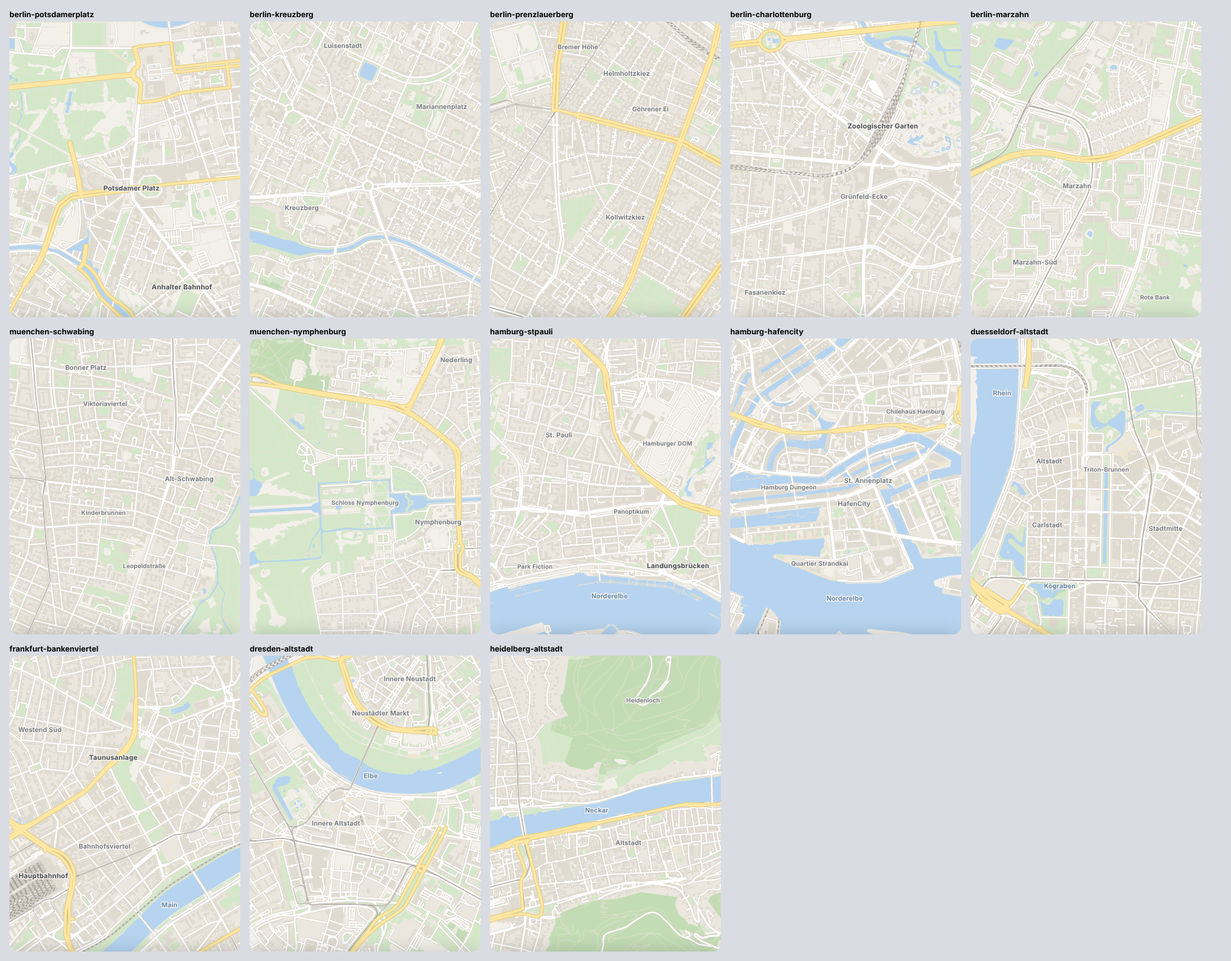
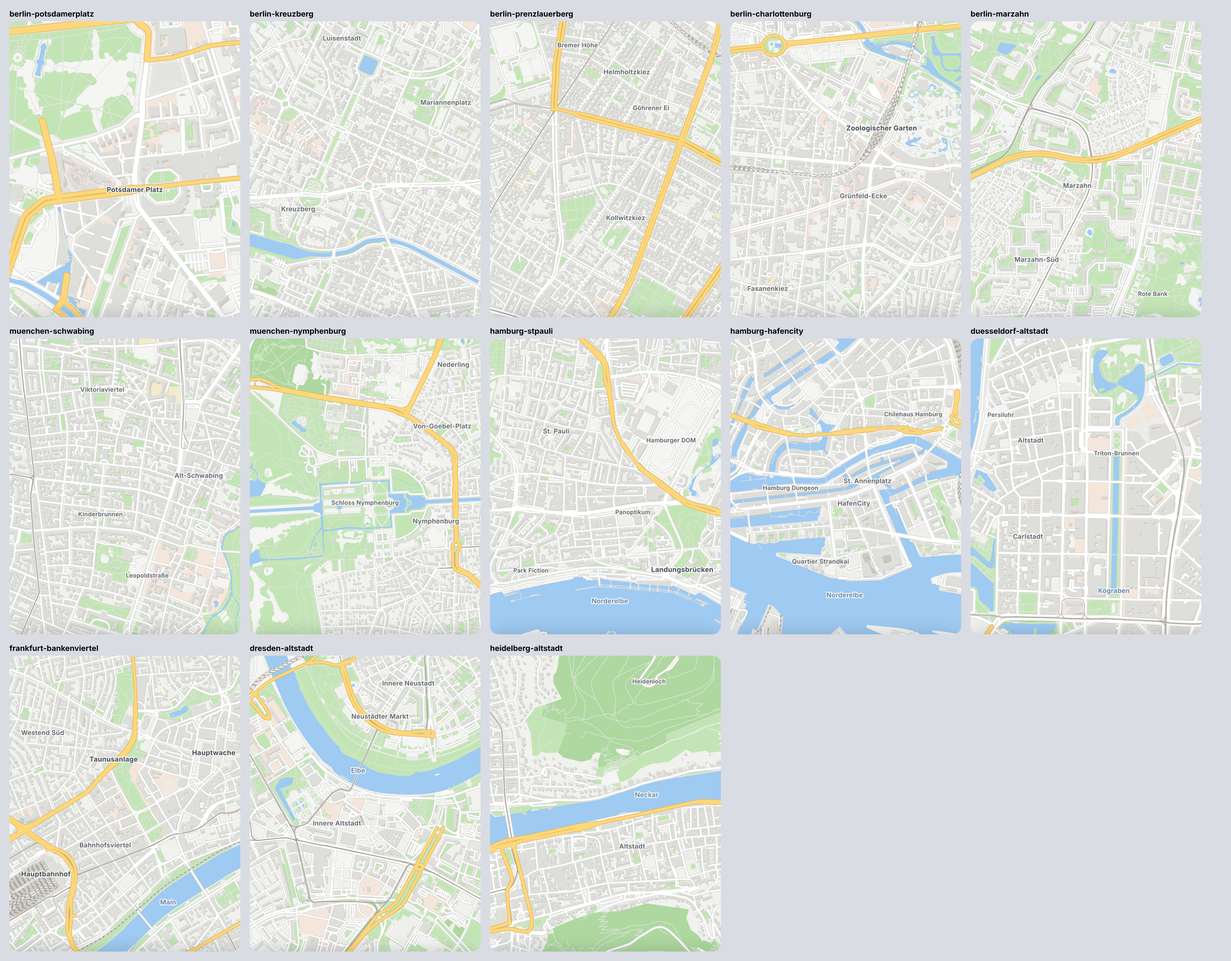
지도 시안: 기본 색을 중립 밝은 톤 + 땅 쓰임 색 · 축척 · 그림자로, 독일 13곳 다시
Claude-Session: https://claude.ai/code/session_01TBUyc4nvbfrUF2uL1hRtAL

Changed region(s): [[0.0, 0.0, 1.0, 1.0]]

diff --git a/docs/mockups/phone-map/osm/osmmap.js b/docs/mockups/phone-map/osm/osmmap.js
@@ -2,7 +2,7 @@
 // node docs/mockups/phone-map/osm/osmmap.js <data.json> <out.html> <lat> <lon> <metersAcross> [labels.json]
 const fs = require('fs');
 const [, , src, out, lat0s, lon0s, spanS, labelsSrc] = process.argv;
-const lat0 = +lat0s, lon0 = +lon0s, FX = process.env.FX || '';   // FX: A 큰 건물 색 · B 땅 쓰임 색 · C 동네마다 축척 · D 건물 그림자
+const lat0 = +lat0s, lon0 = +lon0s, FX = process.env.FX ?? 'BCD';   // FX: A 큰 건물 색 · B 땅 쓰임 색 · C 동네마다 축척 · D 건물 그림자
 const C = { land: '#f3f0ea', built: '#ebe7df', park: '#d4e8c9', forest: '#c3dcb5', water: '#b6d4ef', road: '#ffffff', edge: '#dad4c9', major: '#fde7a3', majorEdge: '#e3c77c',
   rail: '#a9a49b', label: '#6f7681', plaza: '#efe6d2', bld: '#e0dbd0', foot: '#e6e1d7',
   mark: '#d5cab6', markStation: '#d3d4d6', resi: '#f0ece5', shop: '#f3e3d6', works: '#e3e3df', railyard: '#e4e2dc', school: '#f3e9c9', shadow: '#bdb4a4' };
@@ -19,7 +19,7 @@ const PALS = {
     label: '#6a5f50', foot: '#e3d8c3', resi: '#efe6d4', shop: '#f0dcc4', works: '#e2dccf', railyard: '#e3dccd', school: '#efe1b8', plaza: '#ebdfc8', mark: '#d2c09f' },
   terra: { land: '#f1ebe3', built: '#ebe2d8', bld: '#dcc4b2', shadow: '#bea08a', edge: '#d5c7b9', park: '#c8ddb4', forest: '#b3cf9c', water: '#a5c8e6', major: '#f8d58a', majorEdge: '#d9b064',
     label: '#66594f', foot: '#e2d7cc', resi: '#eee6dc', shop: '#f0dccd', works: '#e3ded8', railyard: '#e4ded7', school: '#efe2c0', plaza: '#ebe0d3', mark: '#d0b19b' } };
-if (PALS[process.env.PAL]) Object.assign(C, PALS[process.env.PAL]);
+if (PALS[process.env.PAL ?? 'neutral']) Object.assign(C, PALS[process.env.PAL ?? 'neutral']);   // 기본: 2 중립 밝은 톤 + B·C·D
 const d = JSON.parse(require('fs').readFileSync(src, 'utf8'));
 const mx = 111320 * Math.cos(lat0 * Math.PI / 180), my = 110540;
 // C: dense old towns closer, loose estates and parks further out — buildings per km² round the centre
